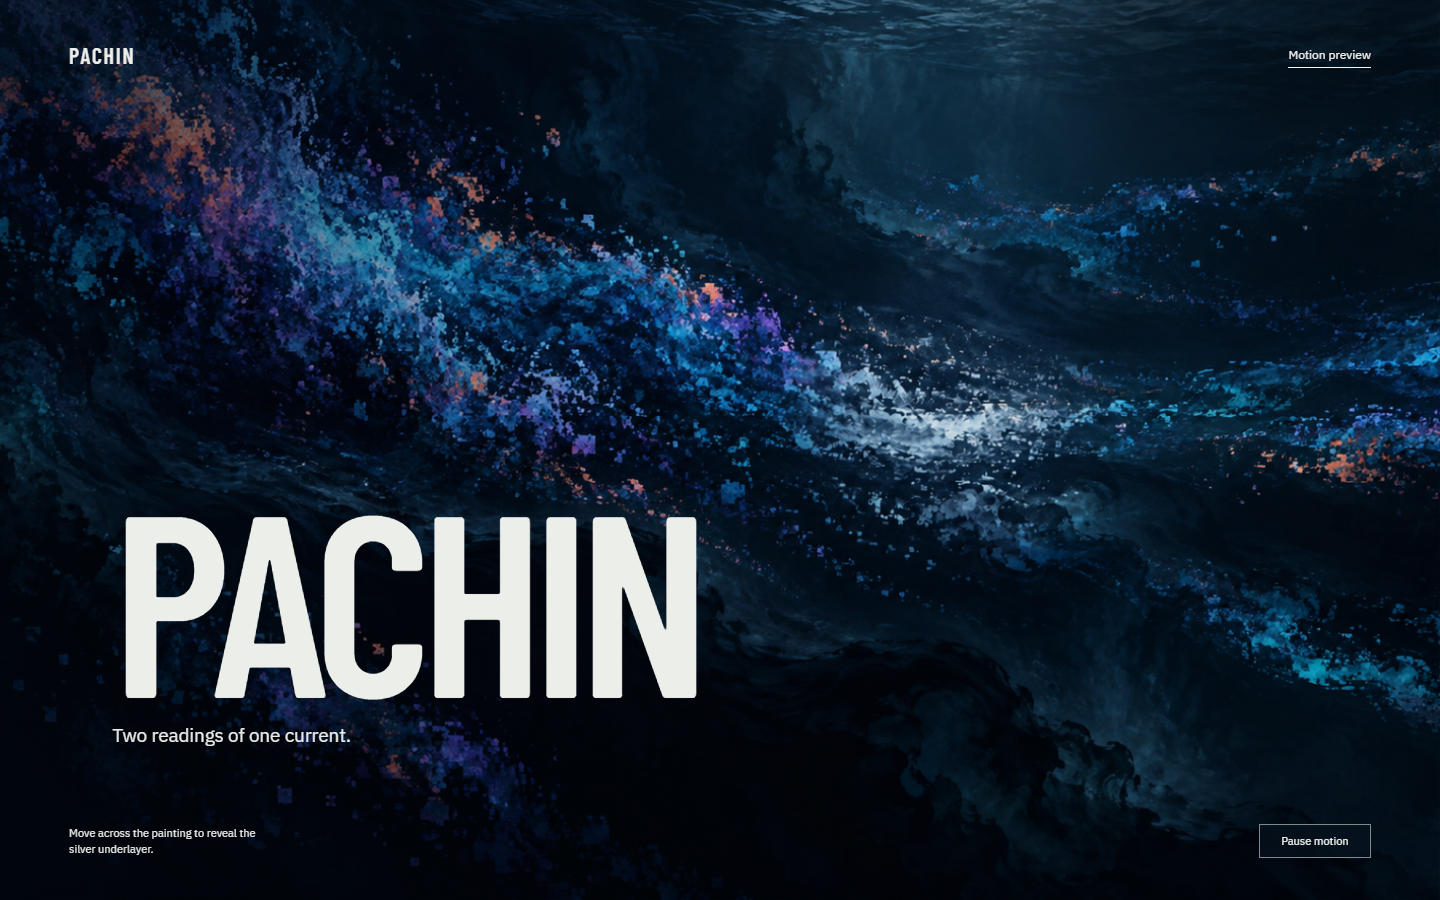
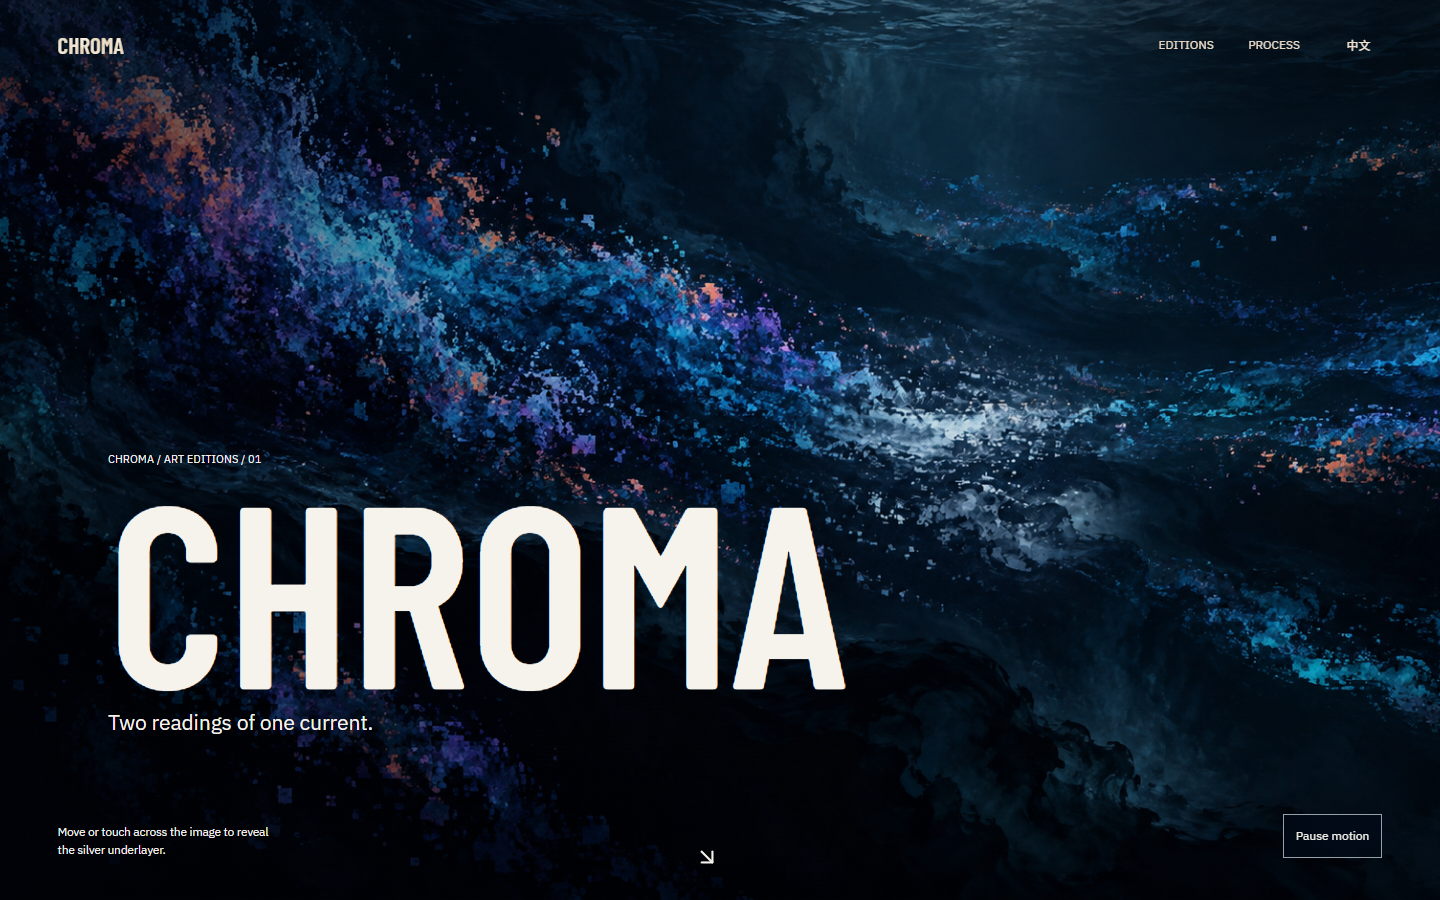
Add verified preview screenshots and publication QA

diff --git a/scripts/subset-font.py b/scripts/subset-font.py
@@ -1,0 +1,14 @@
+"""Regenerate the local Chinese webfont after modifying authored copy (stdlib only)."""
+import json,re,urllib.request,urllib.parse
+from pathlib import Path
+root=Path(__file__).resolve().parents[1]
+manifest=json.loads((root/"docs/font-subset.json").read_text(encoding="utf-8"))
+chars="".join(sorted(set(re.findall(r"[\u3000-\u303f\u3400-\u9fff\uff00-\uffef]","\n".join(p.read_text(encoding="utf-8") for p in (root/"src").rglob("*") if p.suffix in (".ts",".tsx"))))))+"ABCDEFGHIJKLMNOPQRSTUVWXYZabcdefghijklmnopqrstuvwxyz0123456789 .,!?/:;()-–—"
+headers={"User-Agent":"Mozilla/5.0 Chrome/130.0.0.0 Safari/537.36"}
+url="https://fonts.googleapis.com/css2?"+urllib.parse.urlencode({"family":manifest["family"],"text":chars,"display":"swap"})
+with urllib.request.urlopen(urllib.request.Request(url,headers=headers)) as r:css=r.read().decode()
+url=re.findall(r"src:\s*url\(([^)]+)\)",css)[0]
+with urllib.request.urlopen(urllib.request.Request(url,headers=headers)) as r:font=r.read()
+if not font.startswith(b"wOF2"):raise RuntimeError("Expected WOFF2")
+(root/"public"/manifest["path"]).write_bytes(font)
+print("Saved",len(font),"bytes; authored Chinese characters covered:",len(chars))

diff --git a/docs/PUBLICATION-QA.md b/docs/PUBLICATION-QA.md
@@ -1,0 +1,19 @@
+# Publication QA — 2026-10-07
+
+Independent Codex verification against the actual GitHub Actions production build artifact, served locally at the same repository base path.
+
+- TypeScript check and production build: passed in GitHub Actions.
+- Four direct-entry routes × two viewport sizes (1440×900, 390×844) × EN/ZH: 16 states checked.
+- Page errors: 0. Recorded failed normal resources: 0. Horizontal overflow: 0. Broken settled images: 0.
+- Chinese page language and visible translated content checked. CHROMA uses zh-Hans; the other sites use zh-CN. Brand headlines may remain proper English names.
+- Desktop and mobile homepage screenshots reviewed; assets/preview.png updated from this actual build.
+
+## Actual interaction evidence
+
+{
+  "silver": "true"
+}
+
+## Limits
+
+Chromium automation and viewport emulation; physical touch devices, other browser engines, and formal screen-reader acceptance were not repeated. Historical Lovable lifecycle/reduced-motion evidence is preserved separately in docs/lovable/QA.md. Public deployment is verified separately after promotion to main.
